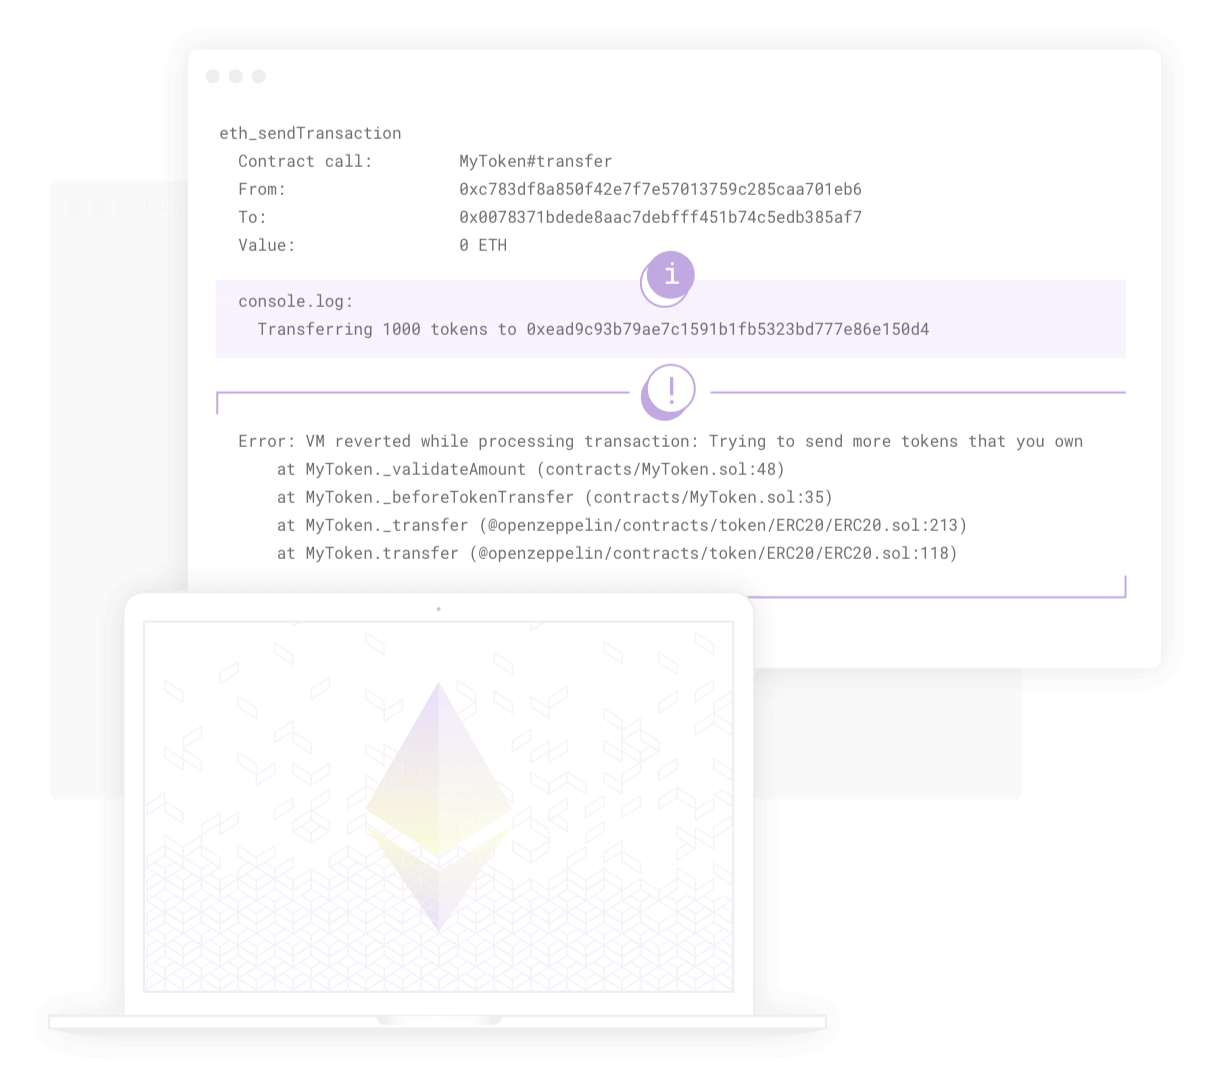
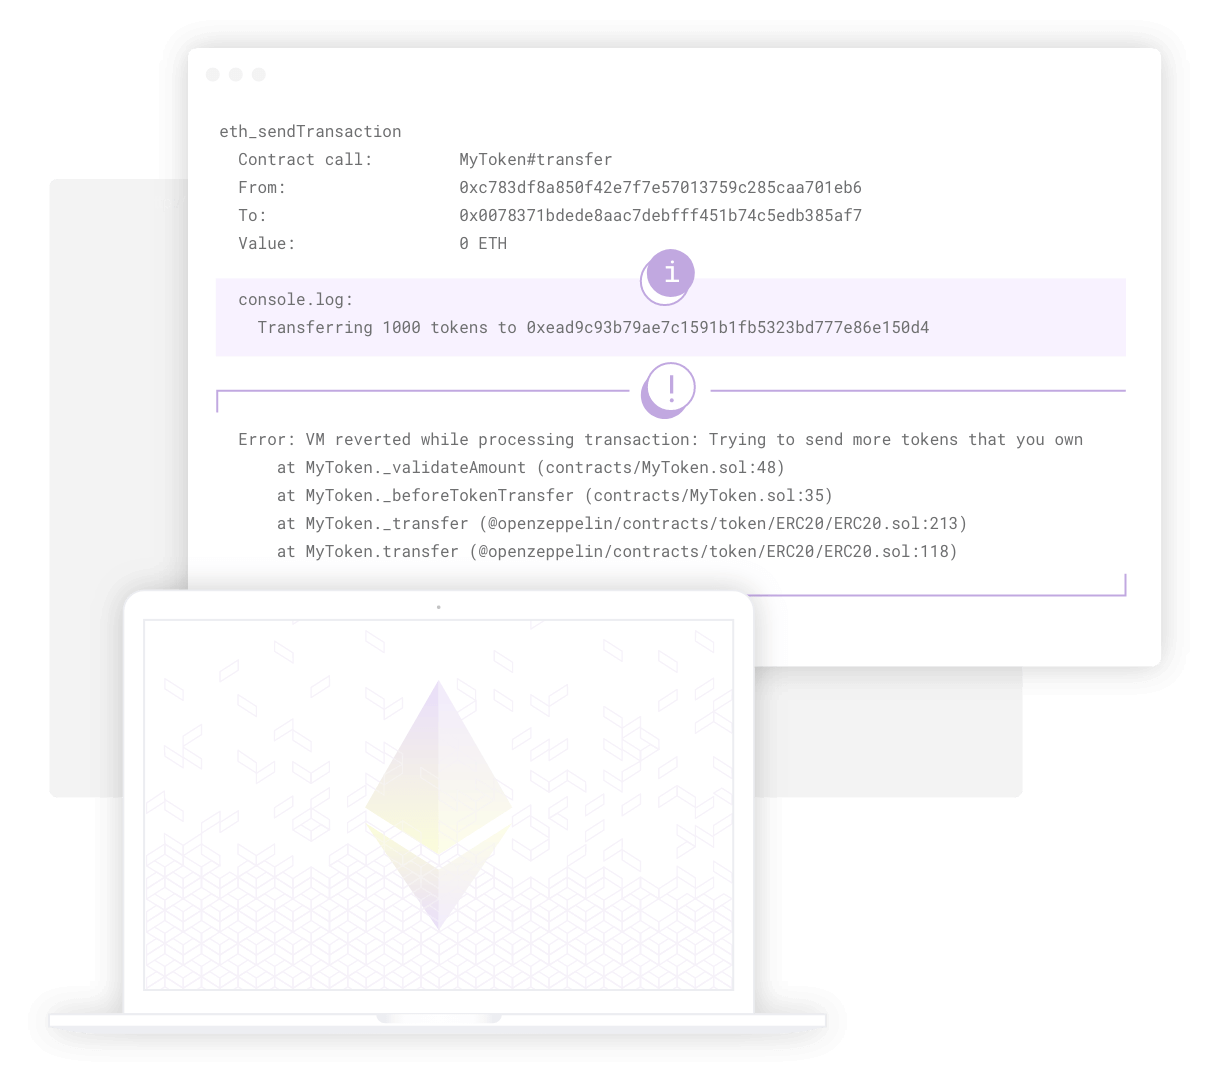
Implement the latests design adjustments by Entrecasa

diff --git a/docs/.vuepress/theme/components/HHWhosUsingHardhat.vue b/docs/.vuepress/theme/components/HHWhosUsingHardhat.vue
@@ -420,13 +420,9 @@ function splitInChunks(arr, chunkSize) {
 
       img
         margin 0 50px
-        opacity .8
         max-height 67px
         transition .1s ease-in-out opacity
         display inline-block
-
-        &:hover
-          opacity 1
 
   .banner-container-mobile
     @media screen and (min-width: 760px)
@@ -442,5 +438,4 @@ function splitInChunks(arr, chunkSize) {
       img
         margin 0 20px
         height 41px
-        opacity 1
 </style>

diff --git a/docs/.vuepress/theme/components/HHWhyHardhat.vue b/docs/.vuepress/theme/components/HHWhyHardhat.vue
@@ -382,6 +382,7 @@ export default {
         line-height 28px
         @media screen and (max-width: 1000px)
           padding 0 15px
+          margin 20px 0 !important
 
       a
         margin-top 2rem
@@ -391,6 +392,7 @@ export default {
         transition 0.1s ease-in-out all
         @media (max-width: 1000px)
           margin-top 0rem
+          margin-bottom 60px
 
         &:hover
           // box-shadow 0 0 5px alpha(black, 0.1)
@@ -428,7 +430,7 @@ export default {
     content ''
     top -50px
     left -10rem
-    box-shadow 0 0 5rem alpha($black, 0.05)
+    box-shadow 0 0 5rem alpha($black, 0.08)
     pointer-events none
     @media (max-width: 1000px)
       width 100%